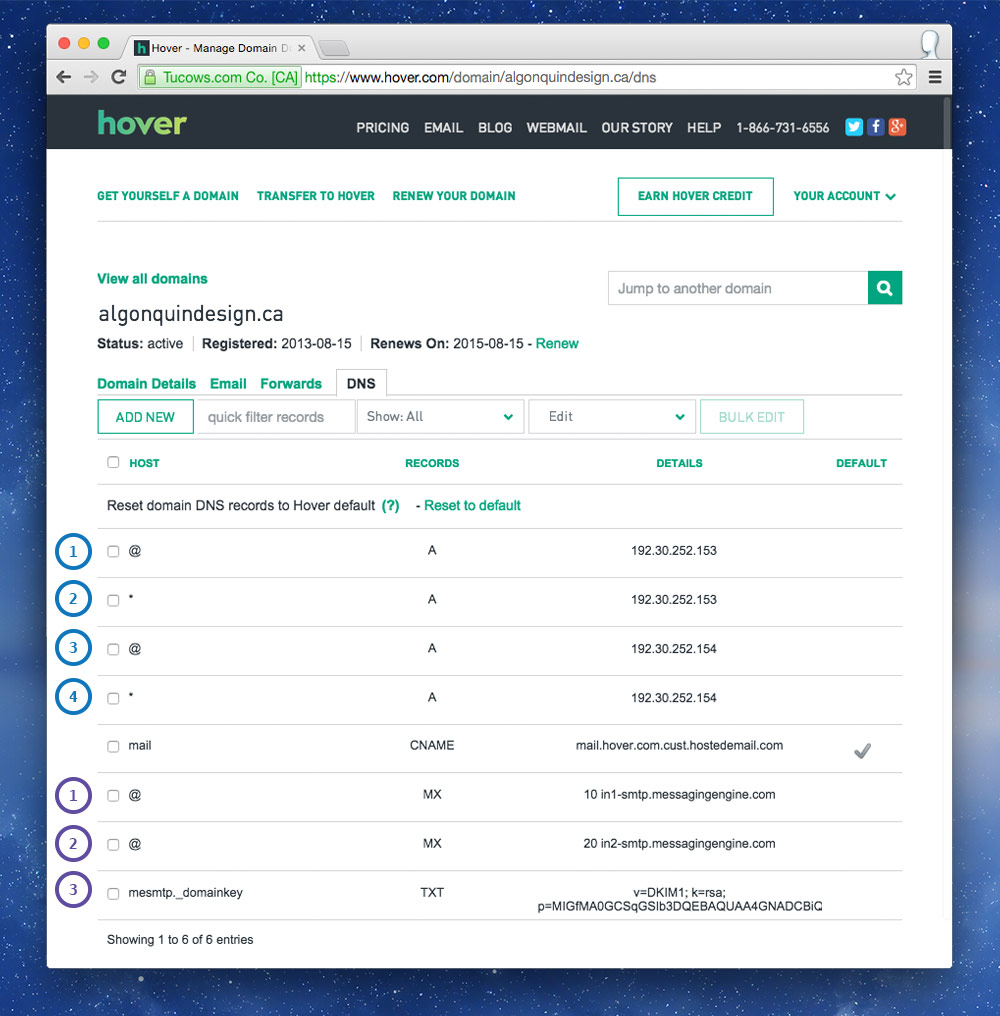
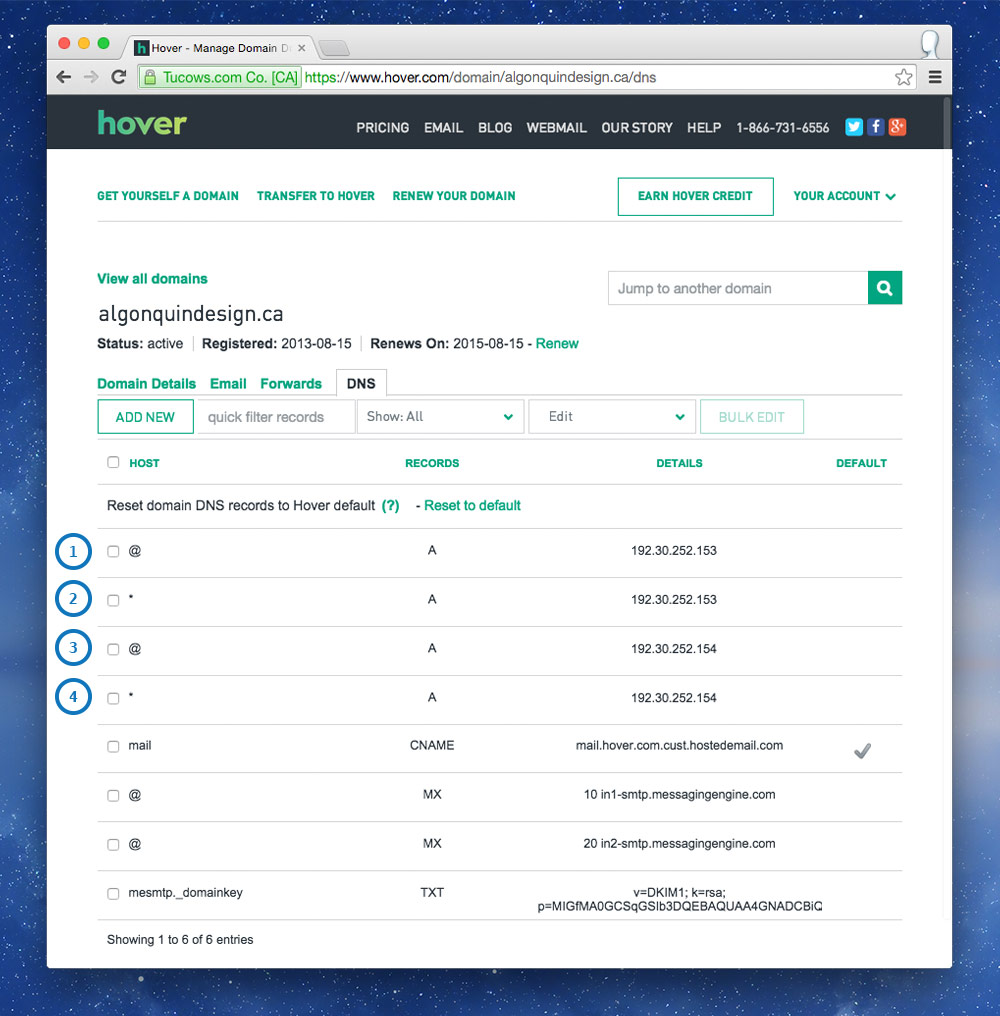
Simplify the domain images for better clarity.

Changed region(s): [[0.93, 0.1526, 0.961, 0.6407], [0.031, 0.2441, 0.062, 0.6407], [0.031, 0.7628, 0.093, 0.9154]]

diff --git a/domains/index.md b/domains/index.md
@@ -39,15 +39,15 @@ There’s a direct connection between a domain and it’s associated IP address.
 After you type the domain into your browser and go your computer starts making a bunch of really quick requests (less than 100 ms):
 
 1. Your computer connects to a DNS server, requesting DNS information for the domain you typed in.
-	Your computer already knows the IP address to at least one DNS server because your Internet provider sent it to your computer.
+  Your computer already knows the IP address to at least one DNS server because your Internet provider sent it to your computer.
 2. The DNS will then send back the IP address of the computer that hosts the website to your computer, if it knows it.
-	If it doesn’t know the IP address it will send your computer the IP address of another name server that might know.
-	The loop continues until your computer has the IP address of the host.
-	**IP address of the website host is called the `A` record.**
+  If it doesn’t know the IP address it will send your computer the IP address of another name server that might know.
+  The loop continues until your computer has the IP address of the host.
+  **IP address of the website host is called the `A` record.**
 3. When your computer gets the IP address it connects directly to the host computer and requests to see the website.
 4. The host/web-server will then return the `index.html` file for the website you requested.
-	Your browser will then start requesting all the other resources of your website like CSS, images, Javascript, etc.
-	If those resources are located on another domain the whole process starts all over again at step 1.
+  Your browser will then start requesting all the other resources of your website like CSS, images, Javascript, etc.
+  If those resources are located on another domain the whole process starts all over again at step 1.
 
 #### Authoritative name server
 
@@ -130,24 +130,22 @@ Go to Mail > Advanced > Virtual Domains
 
 1. Under “Domain” add your domain into the input field and click “Add”—keep all the other settings the same.
 2. Under “Virtual Aliases” add as many e-mail addresses as you want—just enter the part before the @-symbol.
-	If you want your e-mail to be “info@domain.ca” just put “info” into the box and click “Add”. Keep all the other settings the same.
+  If you want your e-mail to be “info@domain.ca” just put “info” into the box and click “Add”. Keep all the other settings the same.
 3. Next up: set some DNS records in Hover.
 
-![](hover-dns.jpg)
-
-**Purple numbers.**
+![](hover-email.jpg)
 
 1. Edit the `MX` record that is already there and put in the first server listed on this [FastMail page—step 4, subsection 2](https://www.fastmail.fm/help/receive/domains.html).
-	Last time I checked the server was: `in1-smtp.messagingengine.com`.
+  Last time I checked the server was: `in1-smtp.messagingengine.com`.
 2. Click the “Add New” button and fill in these details:
-	- *Hostname*: `@`
-	- *Record Type*: `MX`
-	- *Priority*: `20`
-	- *Hostname*: `in2-smtp.messagingengine.com` — The second server listed on FastMail’s help page.
+  - *Hostname*: `@`
+  - *Record Type*: `MX`
+  - *Priority*: `20`
+  - *Hostname*: `in2-smtp.messagingengine.com` — The second server listed on FastMail’s help page.
 3. Click the “Add New” button and fill in these details:
-	- *Hostname*: `mesmtp._domainkey` — This is found at the bottom of FastMail’s “Virtual Domain” settings. Previous screenshot, number 3.
-	- *Record Type*: `TXT`
-	- *Value*: All that gobbledygook from the bottom of FastMail’s “Virtual Domain” settings. Previous screenshot, number 3.
+  - *Hostname*: `mesmtp._domainkey` — This is found at the bottom of FastMail’s “Virtual Domain” settings. Previous screenshot, number 3.
+  - *Record Type*: `TXT`
+  - *Value*: All that gobbledygook from the bottom of FastMail’s “Virtual Domain” settings. Previous screenshot, number 3.
 
 *And your e-mail is all set up—but it’ll take anywhere from 1 hour to 24 hours for it to start working.*
 
@@ -169,18 +167,16 @@ Now we have to go into Hover settings, our domain registrar, and point our recor
 
 ![](hover-dns.jpg)
 
-**Blue numbers.**
-
 1. Edit the first `A` record and change the IP address the the first one listed on this [GitHub help page](https://help.github.com/articles/tips-for-configuring-an-a-record-with-your-dns-provider/). Last time I checked the server was: `192.30.252.153`.
 2. Edit the second `A` record and change it to the first IP address also: `192.30.252.153`.
 3. Click the “Add New” button and fill in these details:
-	- *Hostname*: `@`
-	- *Record Type*: `A`
-	- *IP Address*: `192.30.252.154` — The second IP in GitHub’s help.
+  - *Hostname*: `@`
+  - *Record Type*: `A`
+  - *IP Address*: `192.30.252.154` — The second IP in GitHub’s help.
 4. Click the “Add New” button and fill in these details:
-	- *Hostname*: `*`
-	- *Record Type*: `A`
-	- *IP Address*: `192.30.252.154`
+  - *Hostname*: `*`
+  - *Record Type*: `A`
+  - *IP Address*: `192.30.252.154`
 
 **The better way to do this is with an ANAME, ALIAS, or a Flattened CNAME—[refer to the section below on CloudFlare](#better-security-and-performance-with-cloudflare).**
 
@@ -207,7 +203,7 @@ Back in CloudFlare, edit the “DNS Settings” for your newly added domain.
 
 1. Delete all the `A` records that got copied over from Hover—but don’t touch anything that isn’t an `A` record.
 2. Add a new `CNAME` record:
-	`yourdomain.ca` is an alias of `your-github-username.github.io`
+  `yourdomain.ca` is an alias of `your-github-username.github.io`
 
 CloudFlare will say something about CNAME Flattening—and you’re good to go!
 
